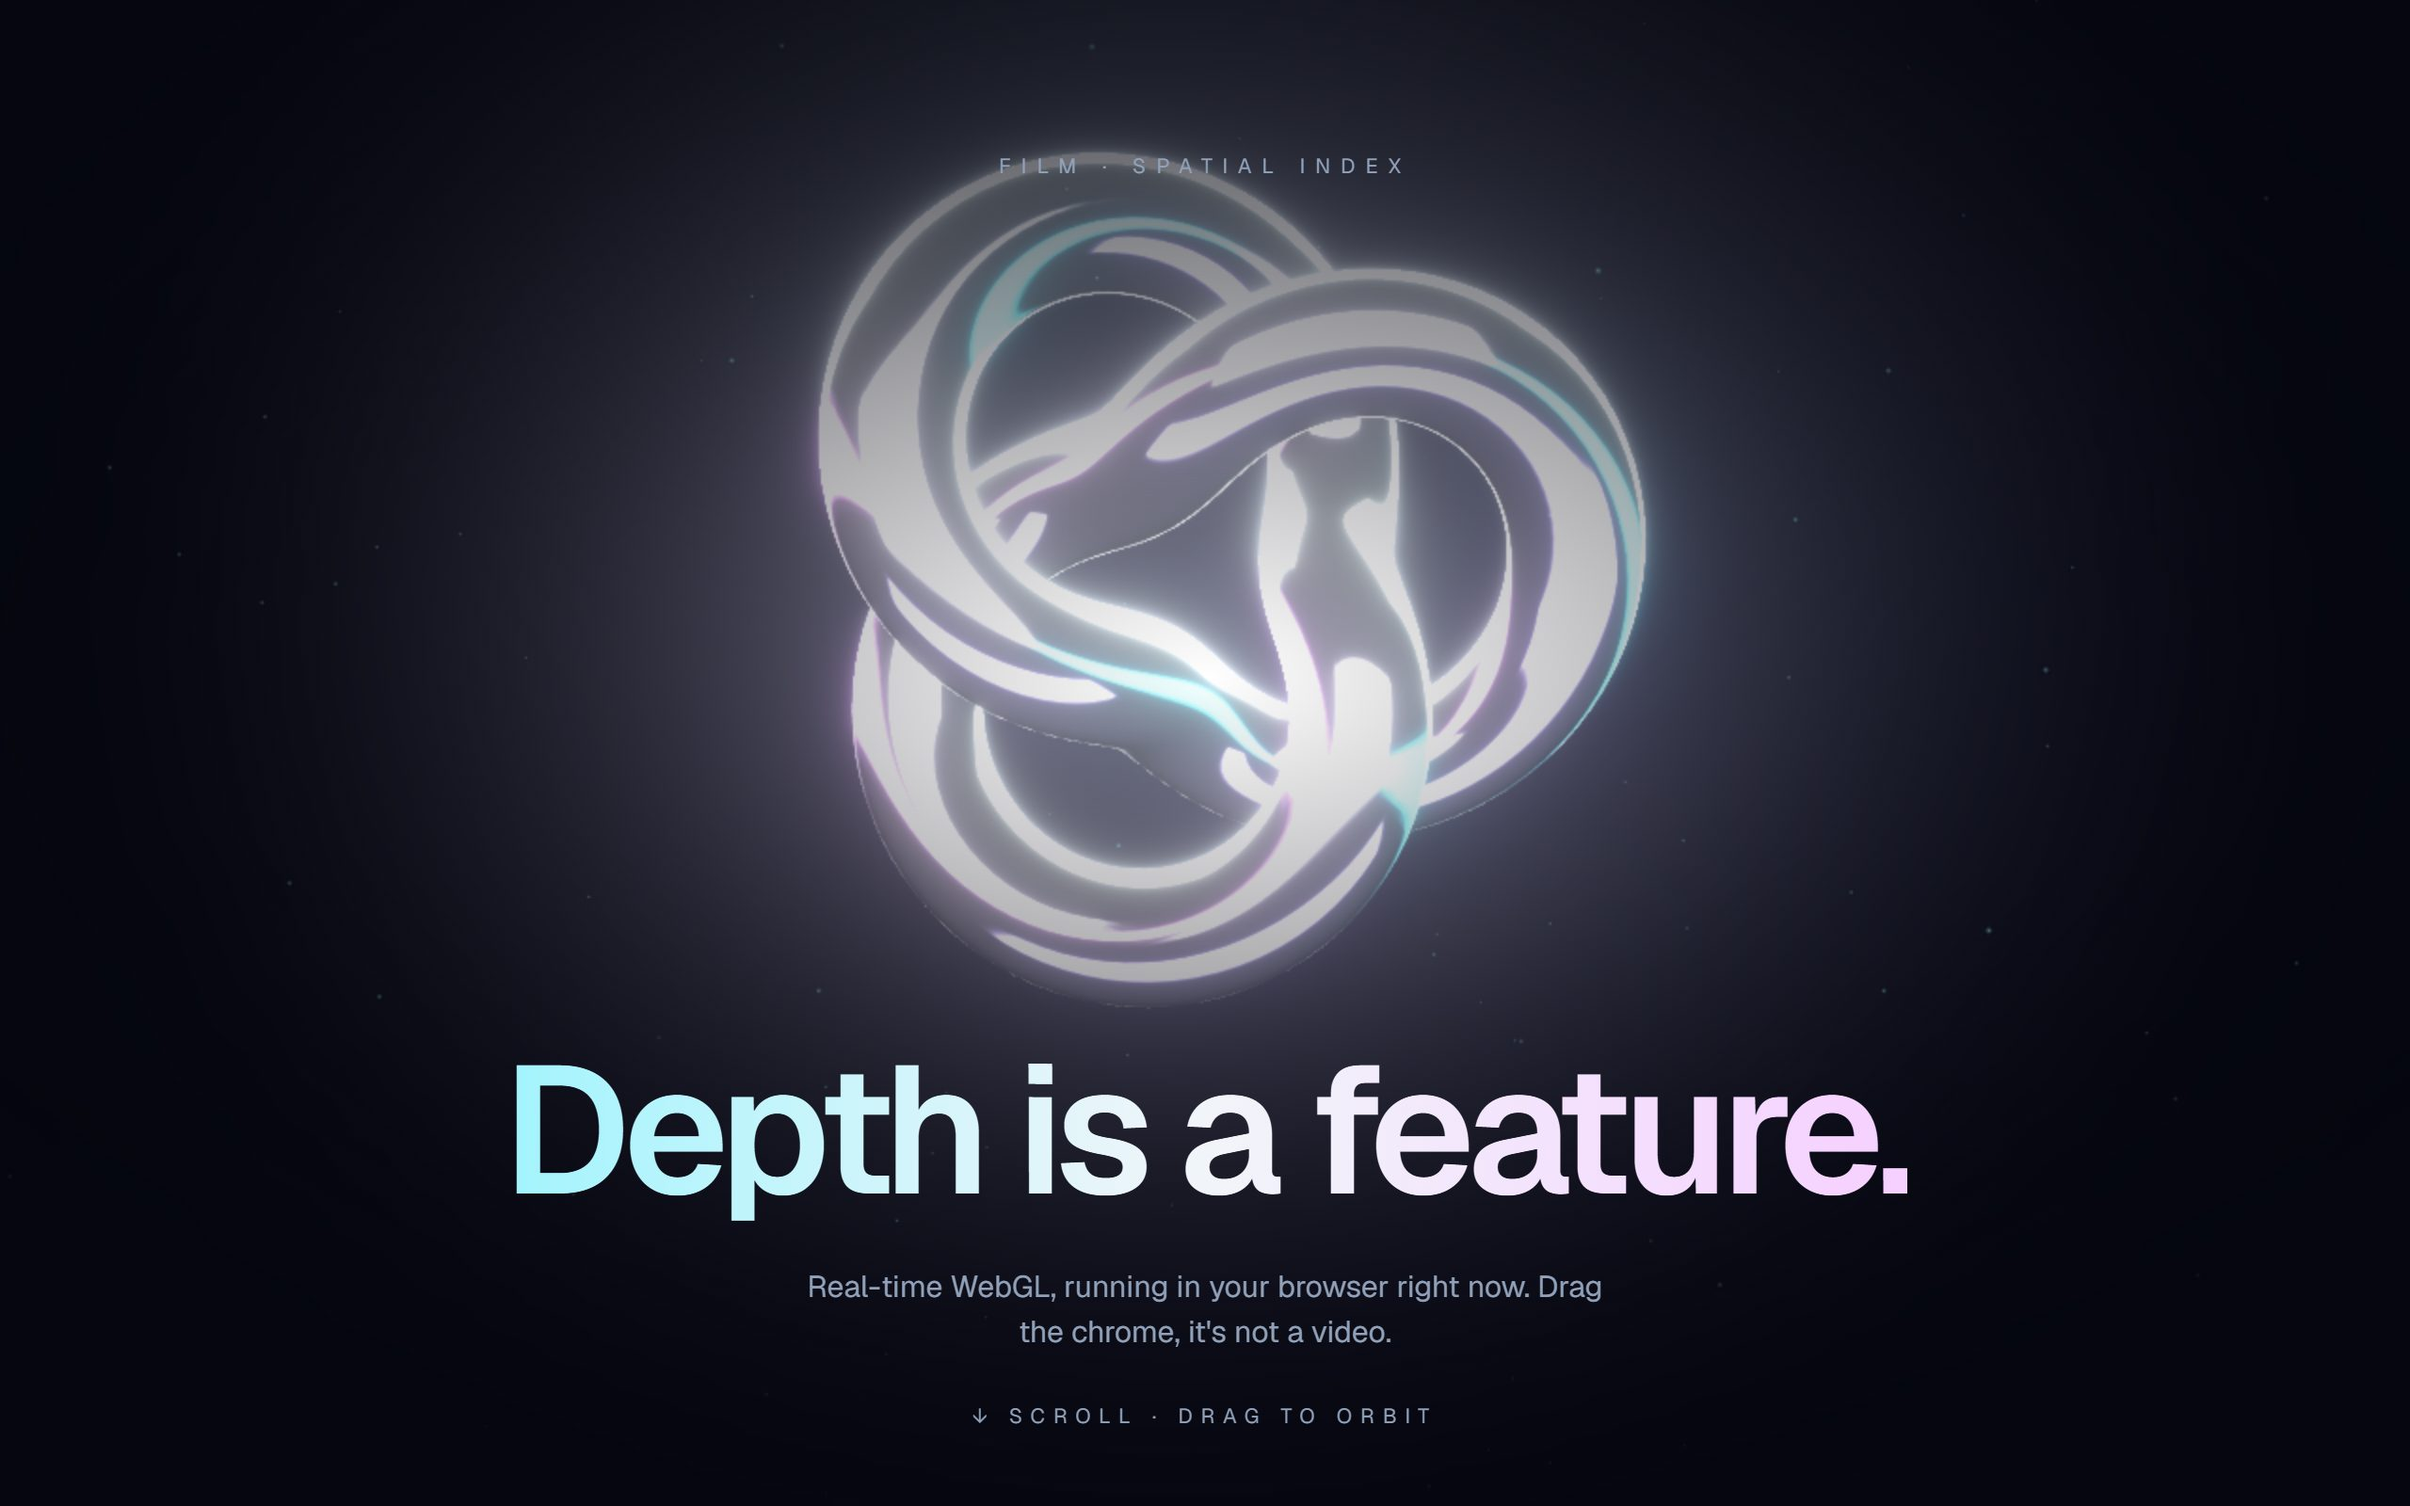
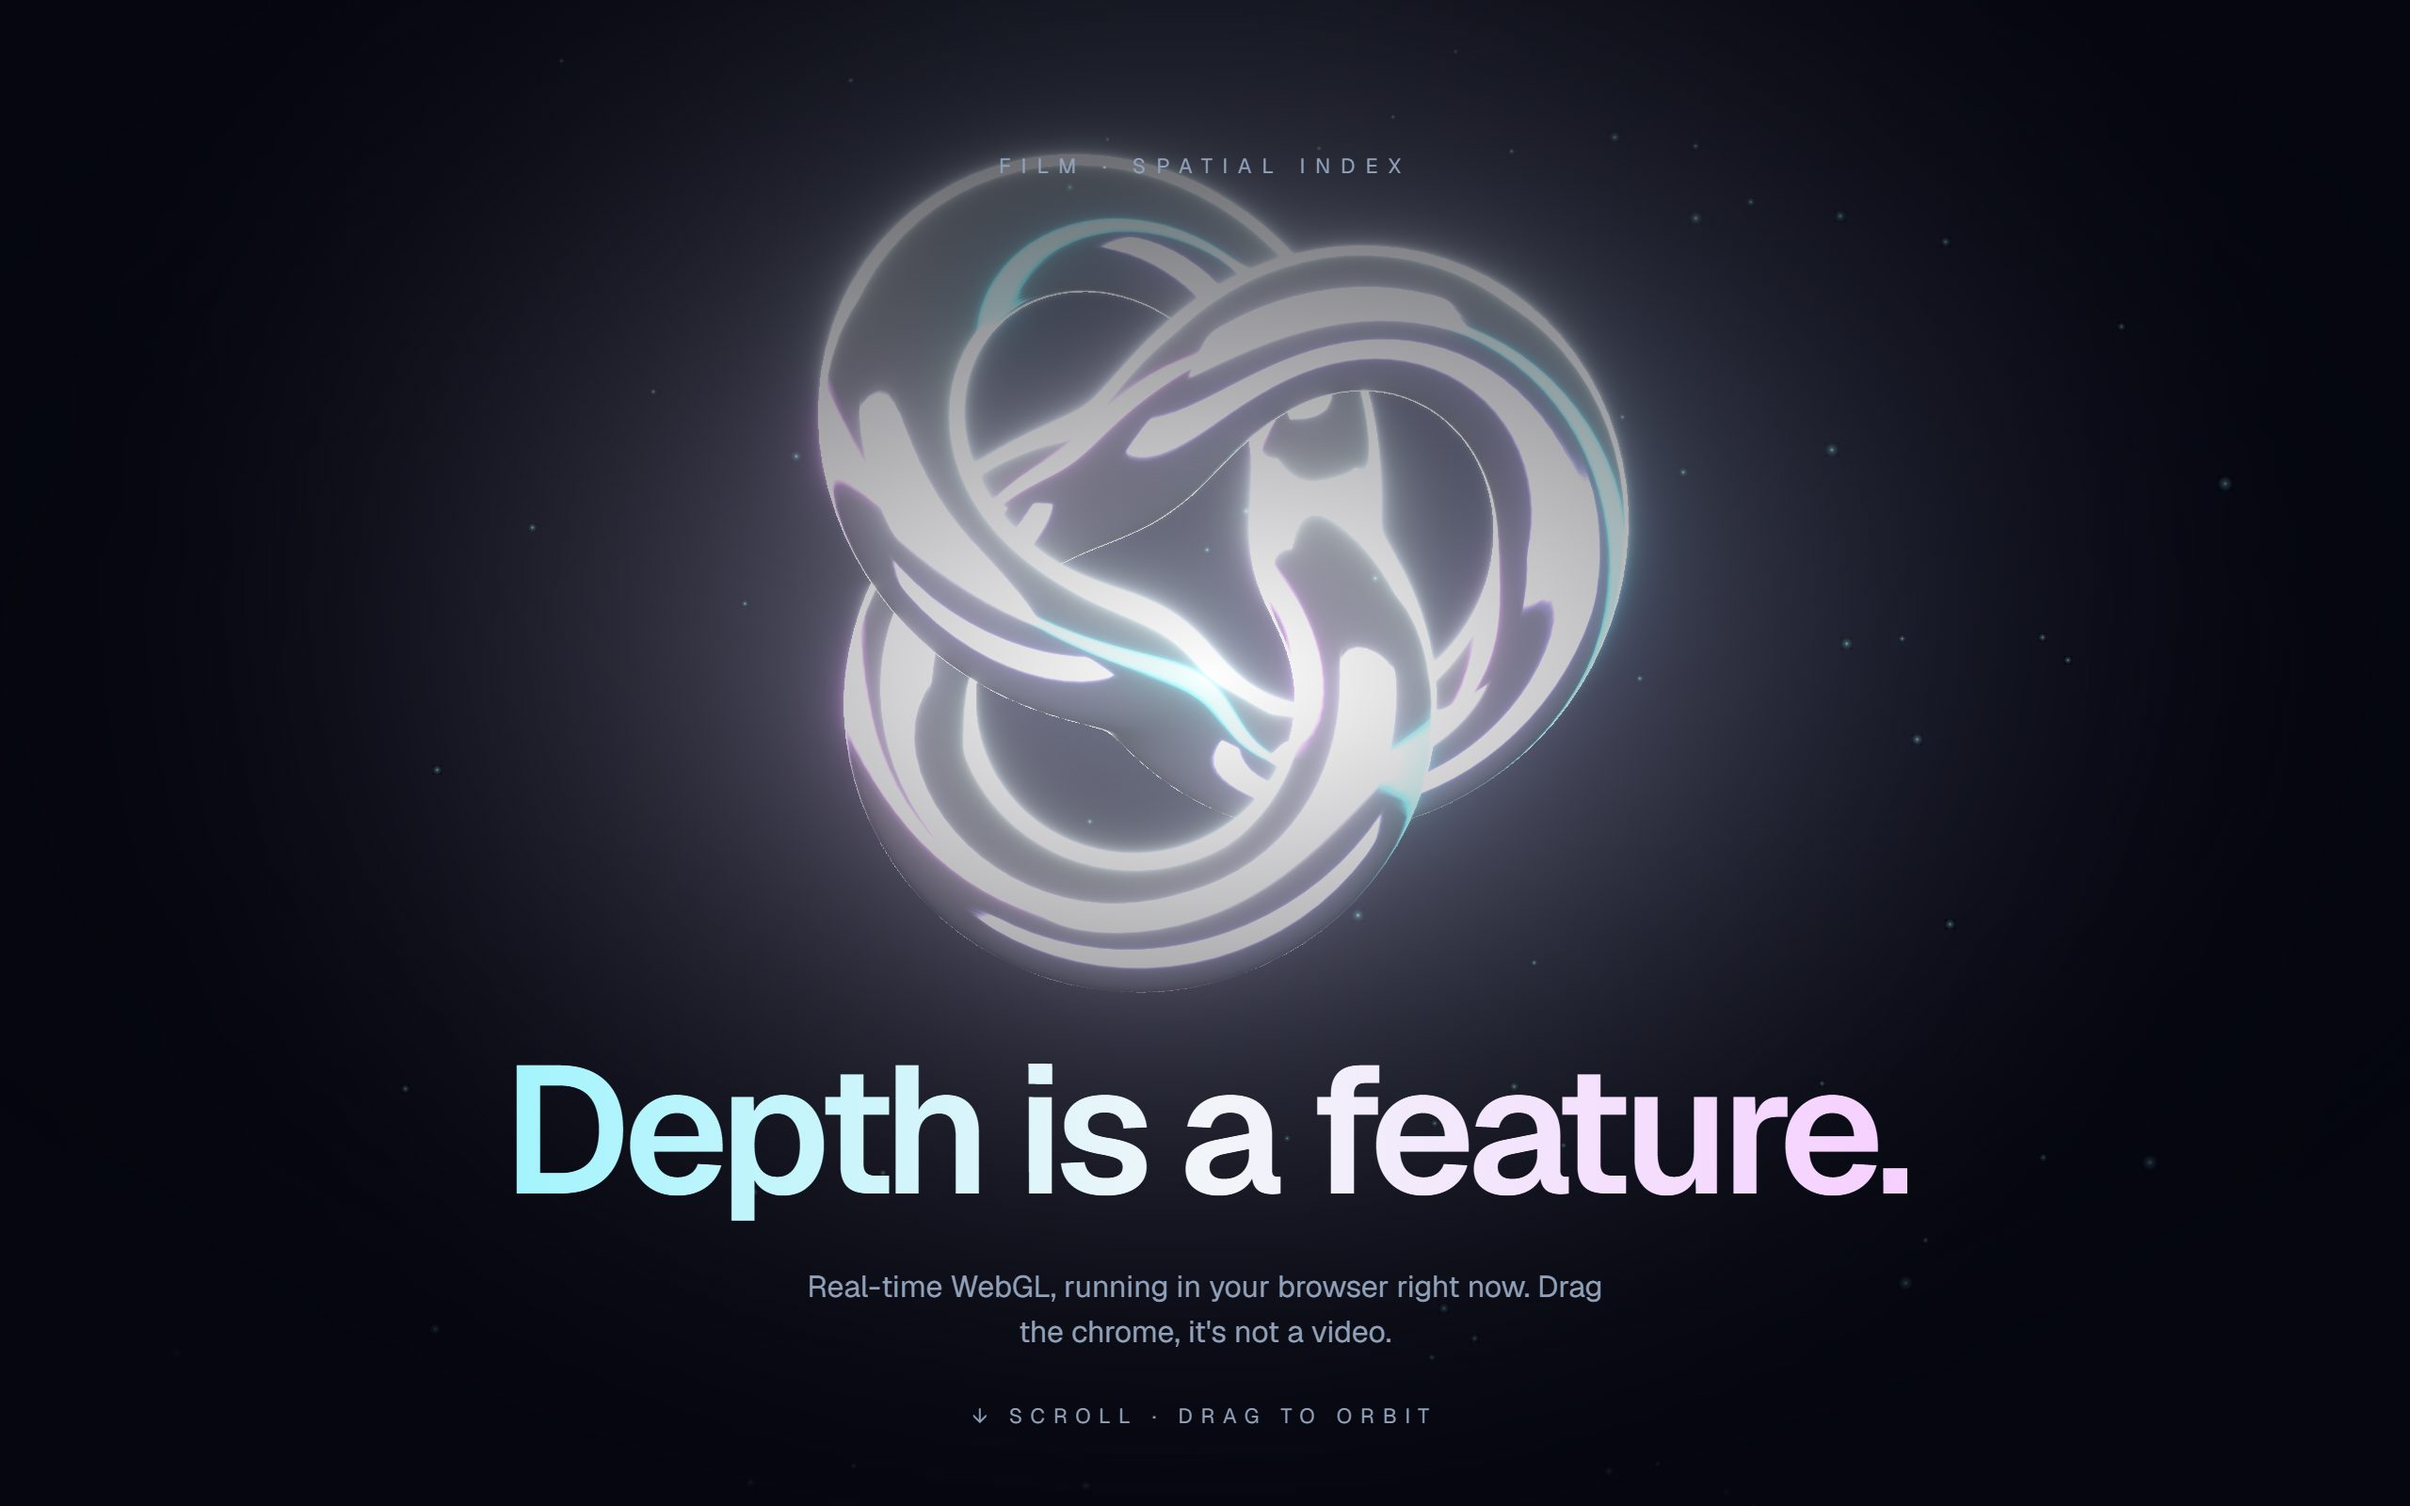
Stop waiting on prefetches the lab cards never show
shoot-lab-cards navigated with waitUntil: networkidle, and every lab page
carries the switcher, which prefetches an RSC payload for all fourteen labs.
Those prefetches outlive the navigation that started them: at thirteen labs the
pile cleared inside Playwright's 30s default and at fourteen it stopped doing
so, so the run timed out on whichever demo came first.

None of that traffic is in the screenshot. load already covers the images and
scripts the page itself needs, and the existing 3s wait covers the WebGL paint.
The full run now takes 93s and shoots all fourteen.

Seven cards changed as a result, all of them scenes that render live: contour
had never been reshot since its materials were reworked, so its card was still
showing the old plastic-looking can.

Changed region(s): [[0.3438, 0.0938, 0.6875, 0.6562]]

diff --git a/web/src/lib/lab-cards.ts b/web/src/lib/lab-cards.ts
@@ -6,18 +6,18 @@
 // สร้างจากสคริปต์ ห้ามแก้มือ
 
 export const labCardVersions: Record<string, string> = {
-  "contour": "7c543f59",
-  "trine": "fdf679d1",
+  "contour": "b3b5398b",
+  "trine": "30b3d780",
   "sable": "0252e4ff",
-  "meridian": "e3820f4a",
+  "meridian": "c12cd25c",
   "cart": "43928dfd",
-  "counter": "65e53185",
+  "counter": "b046cbbd",
   "longtail": "c14b4ce7",
   "stall": "a594baea",
-  "playroom": "507cf5ec",
-  "dimension": "b242d093",
+  "playroom": "e3c40b29",
+  "dimension": "4d8f96c6",
   "vision": "578ce9b6",
-  "space": "bd7756b9",
+  "space": "fbeba2e2",
   "luxe": "7be50997",
   "minimal": "7874f897"
 };
